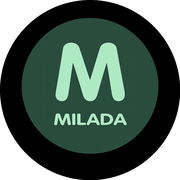
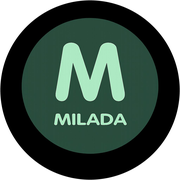
Add files via upload

diff --git a/src/components/sections/HeroSection.tsx b/src/components/sections/HeroSection.tsx
@@ -5,24 +5,29 @@ import Link from "next/link";
 import { useState, useEffect } from "react";
 import { cn } from "@/lib/utils";
 
+// Cloudinary трансформации для оптимальной загрузки:
+// f_auto — автоформат (AVIF/WebP), q_auto — автокачество, w_1600 — макс ширина
+const opt = (url: string, w = 1600) =>
+  url.replace("/upload/", `/upload/f_auto,q_auto,w_${w}/`);
+
 const slides = [
   {
     eyebrow: "Производство с 2012 года",
     title: "Мебельные фасады MILADA",
     subtitle: "ПВХ, эмаль, HPL, камень. Собственное производство в Ульяновске, индивидуальный раскрой.",
-    image: "https://res.cloudinary.com/dx9tcpnkg/image/upload/v1778176567/milada/pvh-arka-premium.png",
+    image: opt("https://res.cloudinary.com/dx9tcpnkg/image/upload/v1778318952/ChatGPT_Image_9_%D0%BC%D0%B0%D1%8F_2026_%D0%B3._13_28_01_1_hspb3e.png"),
   },
   {
     eyebrow: "Более 100 декоров",
     title: "Любые материалы и фрезеровки",
     subtitle: "ПВХ плёнка, HPL-пластик, эмаль RAL, искусственный камень, патина.",
-    image: "https://res.cloudinary.com/dx9tcpnkg/image/upload/v1778176594/milada/hpl-dub-rustikal.jpg",
+    image: opt("https://res.cloudinary.com/dx9tcpnkg/image/upload/v1778318952/ChatGPT_Image_9_%D0%BC%D0%B0%D1%8F_2026_%D0%B3._13_28_02_3_z5bwrj.png"),
   },
   {
     eyebrow: "Опт и розница",
     title: "Поставки по всей России",
     subtitle: "Работаем с мебельными производствами и частными заказчиками.",
-    image: "https://res.cloudinary.com/dx9tcpnkg/image/upload/v1778176600/milada/stone-white.jpg",
+    image: opt("https://res.cloudinary.com/dx9tcpnkg/image/upload/v1778318952/ChatGPT_Image_9_%D0%BC%D0%B0%D1%8F_2026_%D0%B3._13_28_02_2_qziqqs.png"),
   },
 ];
 
@@ -39,7 +44,7 @@ export default function HeroSection() {
       className="relative bg-bg-alt border-b border-line overflow-hidden"
       style={{ paddingTop: "var(--header-h)" }}
     >
-      {/* Декоративный мятный круг на фоне — отсылка к логотипу */}
+      {/* Декоративный мятный круг */}
       <div
         aria-hidden
         className="absolute -top-32 -right-32 w-[420px] h-[420px] rounded-full bg-bg-mint blur-3xl opacity-60 pointer-events-none"
@@ -86,6 +91,7 @@ export default function HeroSection() {
                 fill
                 sizes="(max-width: 1024px) 100vw, 50vw"
                 priority={i === 0}
+                quality={85}
                 className={cn(
                   "object-cover transition-opacity duration-700",
                   i === active ? "opacity-100" : "opacity-0"

diff --git a/src/components/layout/Footer.tsx b/src/components/layout/Footer.tsx
@@ -11,9 +11,9 @@ export default function Footer() {
       <div className="container-site py-14 lg:py-20">
         <div className="grid grid-cols-1 md:grid-cols-2 lg:grid-cols-4 gap-10">
           <div>
-            <Link href="/" className="flex items-center gap-2.5">
-              <Image src="/logo.png" alt="MILADA" width={40} height={40} className="rounded-full" />
-              <span className="font-semibold tracking-wider text-white text-base">MILADA</span>
+            <Link href="/" className="flex items-center gap-3">
+              <Image src="/logo.png" alt="MILADA" width={48} height={48} className="rounded-full" quality={100} />
+              <span className="font-semibold tracking-wider text-white text-lg">MILADA</span>
             </Link>
             <p className="mt-4 text-sm leading-relaxed text-white/50">
               Производство мебельных фасадов с 2012 года. Собственный завод, индивидуальный раскрой.

diff --git a/src/components/layout/Header.tsx b/src/components/layout/Header.tsx
@@ -36,9 +36,17 @@ export default function Header() {
         style={{ height: "var(--header-h)" }}
       >
         <div className="container-site h-full flex items-center justify-between">
-          <Link href="/" className="flex items-center gap-2.5" aria-label="MILADA">
-            <Image src="/logo.png" alt="MILADA" width={40} height={40} className="rounded-full shadow-soft" priority />
-            <span className="font-semibold tracking-wider text-ink text-base">MILADA</span>
+          <Link href="/" className="flex items-center gap-3" aria-label="MILADA">
+            <Image
+              src="/logo.png"
+              alt="MILADA"
+              width={48}
+              height={48}
+              className="rounded-full"
+              priority
+              quality={100}
+            />
+            <span className="font-semibold tracking-wider text-ink text-lg">MILADA</span>
           </Link>
 
           <nav className="hidden md:flex items-center gap-8">

diff --git a/src/app/globals.css b/src/app/globals.css
@@ -4,7 +4,7 @@
 
 @layer base {
   :root {
-    --header-h: 64px;
+    --header-h: 76px;
   }
   html { scroll-behavior: smooth; }
   * { box-sizing: border-box; }
